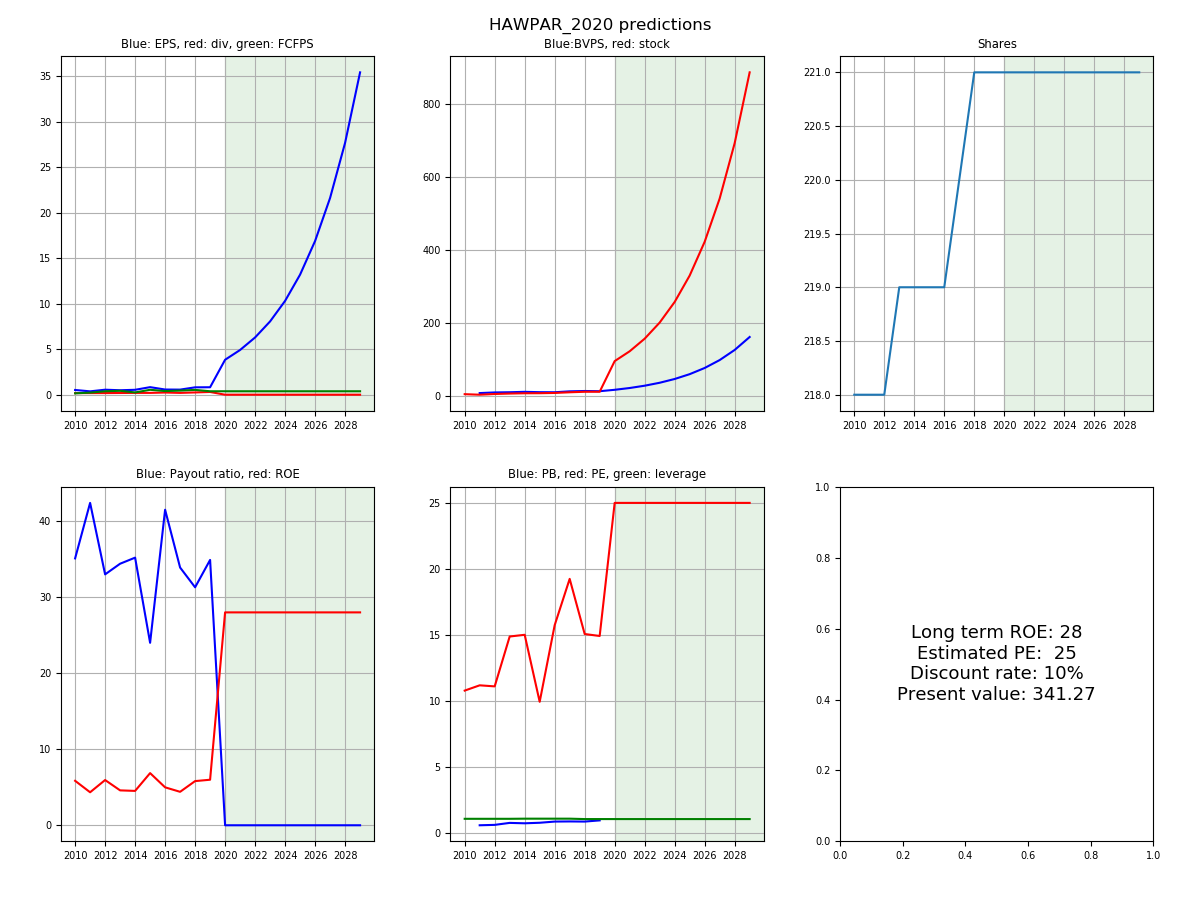
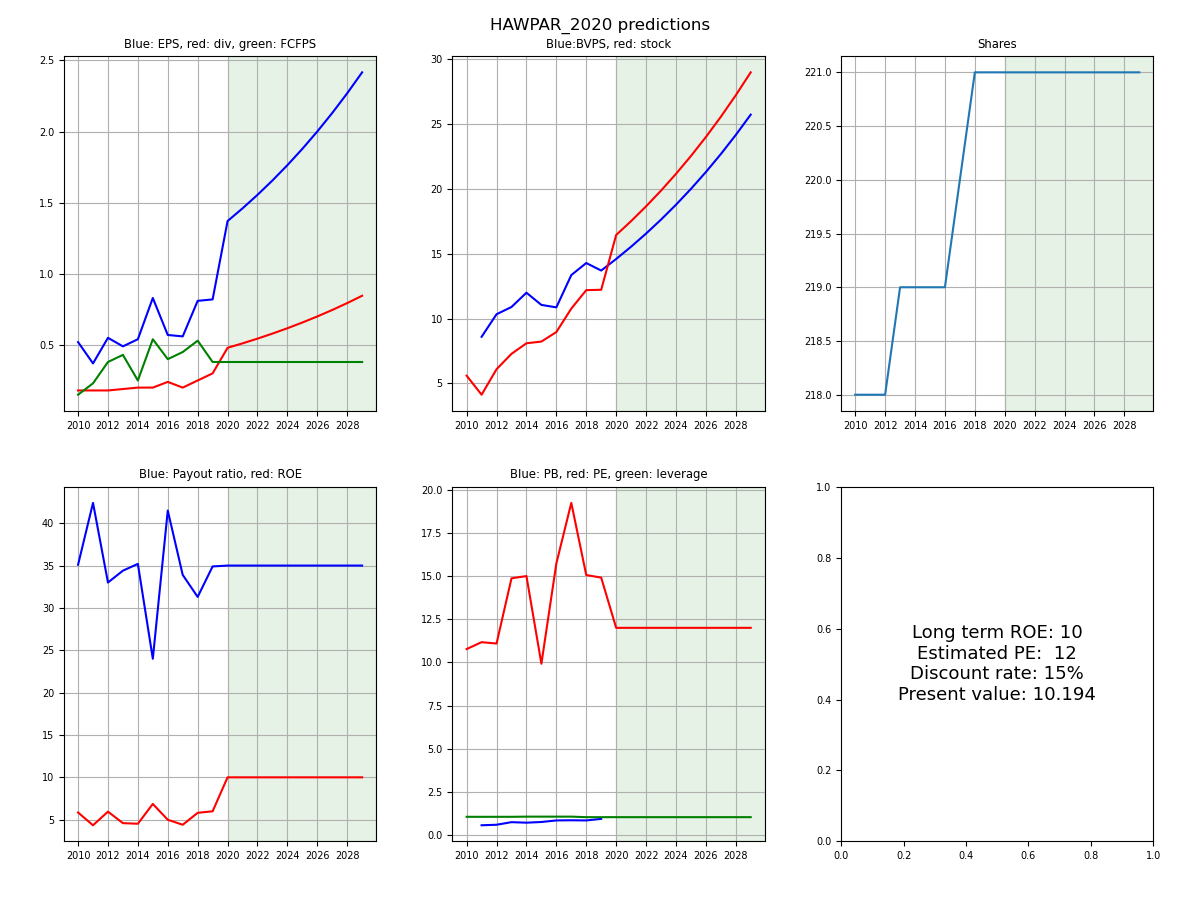
plotted hpc stuff

diff --git a/stock_screener.py b/stock_screener.py
@@ -8,12 +8,12 @@ import main_functions_wrapper as main
 '''
 =========Key in parameters here==========
 '''
-currentprice = 1400
-estimated_roe = 28
-estimated_pe = 25
-estimated_payout_ratio = 0
-dcf_rate = 10
-div_taxrate = 21
+currentprice = 9.3
+estimated_roe = 10
+estimated_pe = 12
+estimated_payout_ratio = 35
+dcf_rate = 15
+div_taxrate = 0
 years2project = 10
 sampletitle = 'HAWPAR_2020'
 filename = sampletitle+'_condensed.csv'
@@ -53,8 +53,8 @@ if __name__ == "__main__":
     if plot_sweeps:
         sweepresolution=20
         #hard_code_pe = {}
-        #hard_code_pe['pe_ratio_avg'] = 20
-        #hard_code_pe['pe_ratio_std'] = 5
+        #hard_code_pe['pe_ratio_avg'] = 13
+        #hard_code_pe['pe_ratio_std'] = 1.5
         hard_code_pe = None
         prices = main.sweep_parameters_roe_and_pe(discount_rate=dcf_rate, 
                                                   payout_ratio=estimated_payout_ratio, 
